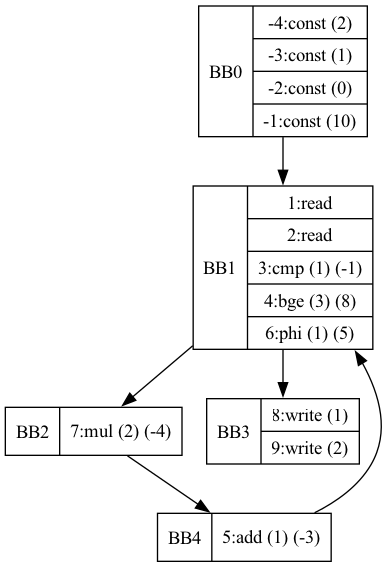
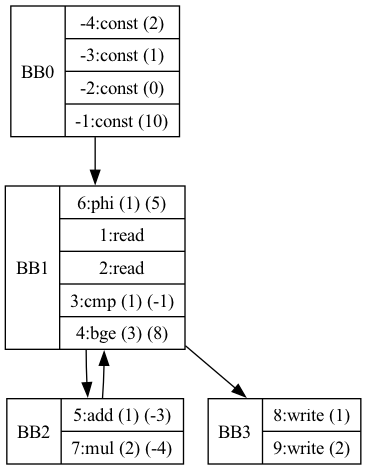
[simple_nested_if_while.ty] outputs proper DOT...now see if it works for [nested_if_while.ty]; revisioins = mostly in [p2_assignment() && p2_whileStatement()], fixing minor issues with [this->currBB], added lots of print statements

Changed region(s): [[0.0, 0.0, 0.9918, 1.0]]

diff --git a/src/Parser.cpp b/src/Parser.cpp
@@ -312,6 +312,7 @@ SSA* Parser::p2_assignment() {
     bool overwrite = false;
     #ifdef DEBUG
         std::cout << "[Parser::p2_assignment(" << this->sym.to_string() << ")]" << std::endl;
+        std::cout << "\t[this->currBB] looks like: \n\t" << this->currBB->toString() << std::endl;
     #endif
     // LET(TUCE GO)
     this->CheckFor(Result(2, 6)); // check for `let`
@@ -373,7 +374,11 @@ SSA* Parser::p2_assignment() {
             }
 
             // 10.30.2024: while-loop confirmed(?)
-            if ((curr->child && (oldCurr->compare(curr->child))) && (curr->child->child2 && (prevChild2->compare(curr->child->child2)))) {
+            if ((curr->child && (oldCurr->compare(curr->child))) && 
+                (curr->child->child2 && (prevChild2->compare(curr->child->child2))) && 
+                (curr->child->findSSA(this->ssa_table.at(this->currBB->varVals.at(ident))))) {
+                // if we're in a while loop & can't find the current [ident]'s SSA-instr in this BB
+                // - then we don't need to create a child BB and can just use the created one from the while-loop
                 BasicBlock *pnt = curr->child;
                 
                 curr->child = new BasicBlock(oldCurr->varVals);
@@ -463,12 +468,12 @@ SSA* Parser::p2_assignment() {
 
         // [10.30.2024]: PHI-instr
         // if (blk->varVals.find(ident) != blk->varVals.end()) {
-        BasicBlock *parent = this->currBB->parent;
+        BasicBlock *parent = this->currBB; // [11.01.2024]: changed from [this->currBB->parent] to [this->currBB] (circular loop)
         // this->currBB = blk; // [10.24.2024]: So that [this->addSSA()] will add SSA-instr into proper BasicBlock
         if (this->currBB->child2) {
             this->currBB = this->currBB->child2; // [10.29.2024]: to follow the loop (IFF ONE EXISTS!)
             #ifdef DEBUG    
-                std::cout << "got child2! " << std::endl << this->currBB->toString() << std::endl;
+                std::cout << "got child2! looks like: \n\t" << this->currBB->toString() << std::endl;
             #endif
         } else {
             #ifdef DEBUG
@@ -493,6 +498,7 @@ SSA* Parser::p2_assignment() {
 
         #ifdef DEBUG
             std::cout << "new phi-SSA: " << phi_instr->toString() << std::endl;
+            std::cout << "current BB (og parent): " << this->currBB->toString() << std::endl;
         #endif
         // } else {
         //     blk->varVals.insert_or_assign(ident, table_int); 
@@ -508,6 +514,7 @@ SSA* Parser::p2_assignment() {
     
     #ifdef DEBUG
         std::cout << "[Parser::p2_assignment()]: returning " << value->toString() << std::endl;
+        std::cout << "current BB: " << this->currBB->toString() << std::endl;
     #endif
 
     // [10/01/2024]: Don't we need to assign [this->VVs] to this->currBB first?
@@ -1090,7 +1097,7 @@ SSA* Parser::p2_whileStatement() {
     parent_blk->child = while_blk;
     while_blk->parent = parent_blk;
     while_blk->child2 = parent_blk; // [10/30/2024]: changed to child2
-    this->currBB = while_blk;
+    // this->currBB = while_blk;
     // this->currBB = this->currBB->child; // [10.21.2024]: same as right above
     // END
 

diff --git a/src/BasicBlock.hpp b/src/BasicBlock.hpp
@@ -32,9 +32,6 @@ public:
         #ifdef DEBUG
             std::cout << "in ~BasicBlock()" << std::endl;
         #endif
-        // #ifdef DEBUG
-        //     std::cout << "in ~BasicBlock(this->instrList.size=" << this->instrList.size() << ")" << std::endl;
-        // #endif
 
         if (this->constList) {
             delete this->constList;
@@ -57,25 +54,6 @@ public:
         //     delete instr;
         // }
     }
-
-    // [10/01/2024]: We don't actually need to do this bc we can do smtn else instead
-    // - [Parser::this->addSSA()] already adds the SSA instr to the LinkedList, 
-    // - right before we create a new [BasicBlock] each time, we should ONLY THEN assign the [Parser::SSA_LL] to [this->instrList]!!!
-    // void insertInstr(SSA *instr) {
-    //     this->instrList.at(instr->get_operator())->InsertAtTail(instr);
-    // }
-
-    // void printInstrList() const {
-    //     std::cout << "[instrA]:\n\tinstrA1, instrA2, instrA3, ..." << std::endl;
-    //     for (unsigned int i = 1; i < SymbolTable::operator_table.size(); i++) {
-    //         std::cout << "[" << SymbolTable::operator_table_reversed.at(i) << "]: " << std::endl << "\t";
-    //         if (this->instrList.find(i) != this->instrList.end()) {
-    //             this->instrList.at(i)->printList();
-    //         } else {
-    //             std::cout << std::endl;
-    //         }
-    //     } 
-    // }
 
     // [10/14/2024]: BLEHHHH; ugh do we need to do this?
     // void setInstructionList(std::unordered_map<int, LinkedList*> curr_instr_lst) {
@@ -170,6 +148,15 @@ public:
 
     inline bool compare(BasicBlock *b) {
         return (this->blockNum != b->blockNum); 
+    }
+
+    inline bool findSSA(SSA *s) {
+        for (const auto &n : this->newInstrs) {
+            if (s->compare(n->instr)) {
+                return true;
+            }
+        }
+        return false;
     }
 
     BasicBlock *parent, *parent2;

diff --git a/src/Parser.hpp b/src/Parser.hpp
@@ -395,8 +395,14 @@ public:
                         std::cout << "currBB looks like: nullptr!" << std::endl;
                     }
                 #endif
-                // [10.23.2024]: [LinkedList::InsertAtTail()] returns [Node*]
-                this->currBB->newInstrs.push_back(this->instrList.at(instr->get_operator())->InsertAtTail(instr));
+                if (instr->get_operator() == 6) {
+                    // [11.01.2024]: phi instructions go ontop of [this->newInstrs]
+                    // - insert into initial position
+                    this->currBB->newInstrs.insert(this->currBB->newInstrs.begin(), this->instrList.at(instr->get_operator())->InsertAtTail(instr));
+                } else {
+                    // [10.23.2024]: [LinkedList::InsertAtTail()] returns [Node*]
+                    this->currBB->newInstrs.push_back(this->instrList.at(instr->get_operator())->InsertAtTail(instr));
+                }
                 #ifdef DEBUG
                     std::cout << "done pushing into [currBB]'s [newInstrs]" << std::endl;
                 #endif

diff --git a/src/SSA.hpp b/src/SSA.hpp
@@ -89,12 +89,16 @@ public:
     }
     bool compare(SSA *s) const {
         if (
-            ((this->debug_num > 0) && (this->op == s->get_operator()) && 
-            (this->x != nullptr && (this->x == s->get_operand1())) && 
-            (this->y != nullptr && (this->y == s->get_operand2()))) 
+            (
+                (this->debug_num > 0) && (this->op == s->get_operator()) && 
+                (this->x != nullptr && (this->x == s->get_operand1())) && 
+                (this->y != nullptr && (this->y == s->get_operand2()))
+            ) 
             ||
-            ((this->debug_num < 0) && (this->constVal != nullptr && (this->constVal == s->get_constVal())))
-            ) {
+            (
+                (this->debug_num < 0) && 
+                (this->constVal != nullptr && (this->constVal == s->get_constVal()))
+            )) {
             return true;
         }
         return false;

diff --git a/main.cpp b/main.cpp
@@ -24,7 +24,7 @@
 // std::string f_name = file_name;
 // std::string f_full = f_name + f_ext;
 // std::string in_f = "tst/" + f_name + f_ext;
-#define in_f "tst/simple_nested_if_while.ty"
+#define in_f "tst/nested_if_while.ty"
 
 // [10.23.2024]: Silly rabbit
 
